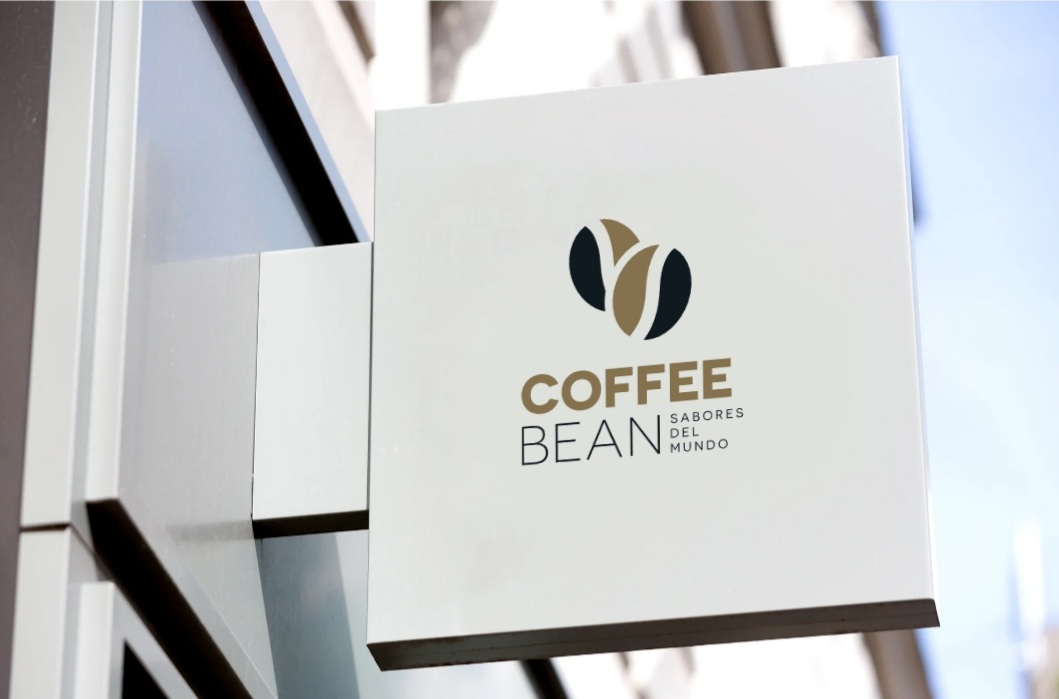
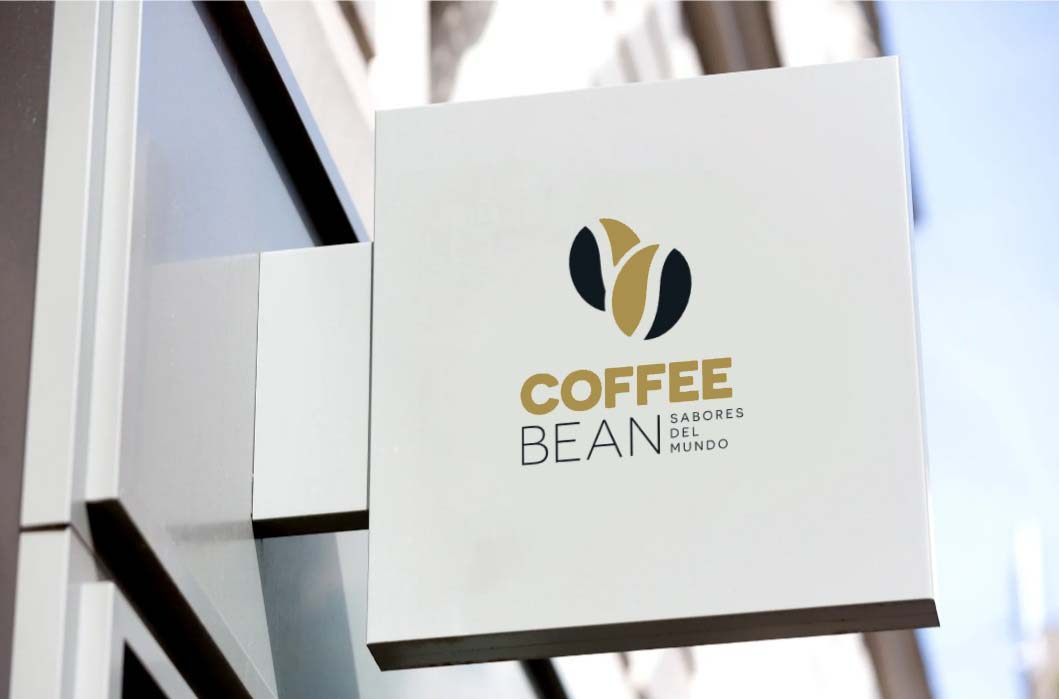
cambios colores index

Changed region(s): [[0.4674, 0.5107, 0.7167, 0.6009], [0.5609, 0.3004, 0.6232, 0.4807]]

diff --git a/styles/landing.css b/styles/landing.css
@@ -28,6 +28,7 @@
     align-items: center;
     opacity: 0;
     animation: myAnim 2s ease 0s 1 normal forwards;
+    filter: contrast(10%);
   }
 
   & h1 {
@@ -36,10 +37,11 @@
     font-weight: 700;
     font-size: clamp(2rem, -1.077rem + 12.308vw, 6.5rem);
     text-align: center;
-    color: #825a2b;
+    color: #a9904e;
     opacity: 0;
     text-shadow: 14px 14px 14px 22px rgba(0, 0, 0, 0.952);
     animation: titulo 2s ease 0s 1 normal forwards;
+    filter: contrast(10%);
   }
 
   .title__texts {
@@ -261,7 +263,7 @@
         border-radius: 18px;
         margin: 1rem 0 2rem 0;
         filter: contrast(96%);
-        background-color: #c7aa5a;
+        background-color: #a9904e;
         cursor: pointer;
 
         & h3 {
@@ -335,6 +337,7 @@
       height: 100%;
       object-fit: cover;
       border-radius: 18px;
+      filter:contrast(96%);
     }
   }
 
@@ -390,6 +393,7 @@
       height: 100%;
       object-fit: cover;
       border-radius: 18px;
+      filter:contrast(96%);
     }
   }
 
@@ -420,7 +424,8 @@
     }
 
     & input {
-      background-color: #85714e;
+      background-color: #a9904e;
+      filter:contrast(96%);
       box-shadow: rgba(100, 100, 111, 0.2) 0px 7px 29px 0px;
       padding: 1rem 2rem;
       border-radius: 18px;
@@ -550,6 +555,15 @@
     width: 100%;
     height: auto;
     margin: 7rem 1rem 3rem 0.2rem;
+
+    h2::before{
+      content: '';
+      position: absolute;
+      width: 70%;
+      height: 2px;
+      left: 15%;
+      
+    }
   
     & .cafes {
 
@@ -664,9 +678,10 @@
     height: 65vh;
     display: flex;
     flex-direction: column;
-    margin: 6rem 0 7rem 0;
+    margin: 6rem 0 0 0;
     border-radius: 18px;
     overflow-x: hidden;
+    padding-bottom: 3rem;
   
     & figure {
       margin-left: -0.1rem;

diff --git a/index.html b/index.html
@@ -173,7 +173,7 @@
 
         <div class="suscribe__container">
           <figure class="img__logo">
-            <img src="/imagenes/Cafe/Screenshot_20240505-095800_Chrome.jpg" class="img__suscribe" alt="">
+            <img src="/imagenes/Cafe/Screenshot_20240505-09580.jpg" class="img__suscribe" alt="">
           </figure>
 
           <div>

diff --git a/styles/nosotros.css b/styles/nosotros.css
@@ -13,6 +13,7 @@
   margin-top: 7vh;
   overflow: hidden;
   background-image: linear-gradient(120deg, #fdfbfb 0%, #f5f7f8 100%);
+  padding-bottom: 3rem;
 
   & h3 {
     font-family: Inter;

diff --git a/styles/products.css b/styles/products.css
@@ -589,7 +589,7 @@
   }
 
   .footer {
-    padding: 6rem 0 1rem 2rem;
+    padding: 6rem 0 4rem 2rem;
     & .footer__cards {
       position: relative;
       overflow-x: scroll;

diff --git a/styles/footer.css b/styles/footer.css
@@ -51,7 +51,6 @@
   .footer__container {
     padding: 0.1rem 3.3rem;
     height: auto;
-    margin-top: 3rem;
 
     & h5 {
       font-family: "Josefin Sans", sans-serif;
